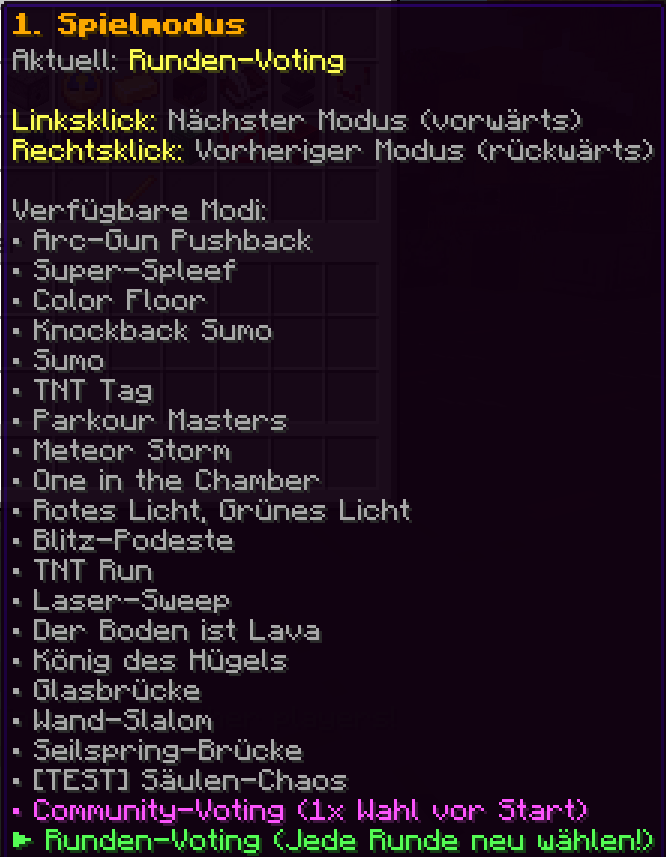
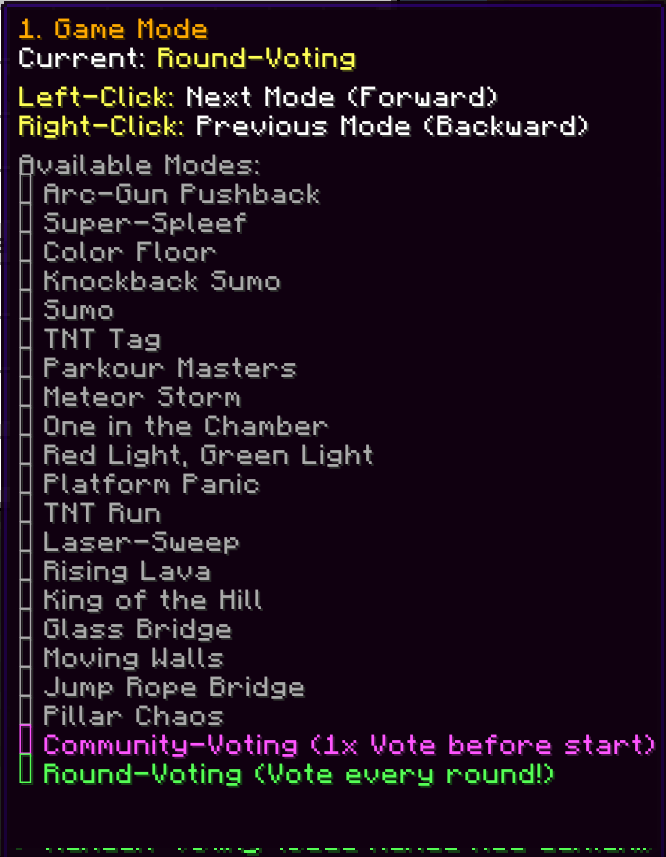
docs & assets: translate GUI screenshots to English and mark PRO edition as Coming Soon

Changed region(s): [[0.0, 0.0, 0.991, 1.0]]

diff --git a/lite-vs-pro.md b/lite-vs-pro.md
@@ -4,7 +4,8 @@ Choose the edition that best powers your Minecraft server community.
 
 | Feature | UltraEvents Lite (Free) | UltraEvents PRO (Premium) |
 | :--- | :---: | :---: |
-| **Download** | [Free on SpigotMC](https://www.spigotmc.org/resources/ultraevents-lite-automated-mini-game-events-system-1-20-26-3.140244/) | Available on BuiltByBit & Polymart |
+| **Status** | **Available Now** | ⏳ **Coming Soon** *(In Final QA Testing)* |
+| **Download** | [Free on SpigotMC](https://www.spigotmc.org/resources/ultraevents-lite-automated-mini-game-events-system-1-20-26-3.140244/) | Launching soon on BuiltByBit & Polymart |
 | **Available Mini-Games** | **4 Games** (ColorFloor, TNT-Run, TNT-Tag, Red Light) | **All 15+ Games** |
 | **Laser Sweep & Moving Walls** | ❌ | ✅ |
 | **Meteor Storm & Rising Lava** | ❌ | ✅ |
@@ -23,11 +24,11 @@ Choose the edition that best powers your Minecraft server community.
 ### Where to download?
 
 > [!TIP]
-> **Start Free, Upgrade Anytime!**
-> You can safely start your server with **UltraEvents Lite**. All arena setups, locations, and configurations carry over 100% seamlessly when you upgrade to **UltraEvents PRO**!
+> **Start Free with Lite Today – 100% Forward Compatible!**
+> You can safely start your server with **UltraEvents Lite** right now. All arena setups, locations, boundaries, and configurations carry over 100% seamlessly when you upgrade to **UltraEvents PRO** upon release!
 
 * 📥 **UltraEvents Lite**: [Download for free on SpigotMC (Resource #140244)](https://www.spigotmc.org/resources/ultraevents-lite-automated-mini-game-events-system-1-20-26-3.140244/)
-* 👑 **UltraEvents PRO**: Get the full edition with all 15+ games on [BuiltByBit](https://builtbybit.com) or [Polymart](https://polymart.org).
+* 👑 **UltraEvents PRO**: *Coming Soon!* Currently in closed beta and final testing. Will be available on BuiltByBit and Polymart soon. Stay tuned in our Discord community for release announcements and early-bird discounts!
 
 ---
 
